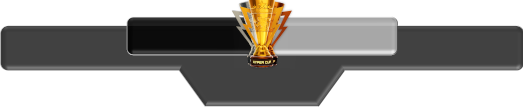
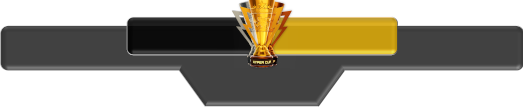
Dash Mountain

Changed region(s): [[0.5201, 0.1402, 0.7648, 0.5327]]

diff --git a/src/components/Bar.vue b/src/components/Bar.vue
@@ -20,7 +20,7 @@
 	.mode--blue.mode--payload .bar{transform: scaleX(-1);}
 	
 	.mode--blue .bar .bar_fill{background-color:#000000;}
-	.mode--red .bar .bar_fill{background-color:#6e6e6e;}
+	.mode--red .bar .bar_fill{background-color:#CB9B05;}
 	
 	.mode--blue.mode--domination .bar .bar_fill{background-color:#000000;}
 	.mode--red.mode--domination .bar .bar_fill{background-color:#6e6e6e;}

diff --git a/src/components/PlayerBar.vue b/src/components/PlayerBar.vue
@@ -65,7 +65,7 @@
 	.playerBar_name{font-size:30px;font-weight:800;grid-column:4 / span 5;grid-row:6 / span 2;position:relative;}
 	.playerBar_name span{position:relative;z-index:10;}
 	.playerBar_name svg{position:absolute;left:0;}
-	.playerBar--red polygon{fill:#6e6e6e;}
+	.playerBar--red polygon{fill:#CB9B05;}
 </style>
 
 <style>

diff --git a/src/components/KillFeed.vue b/src/components/KillFeed.vue
@@ -22,7 +22,7 @@ div {
 	--color-background-dark: #1f1f1f;
 	--color-text-white: white;
 	--color-team-blue: #000000;
-	--color-team-red: #6e6e6e;
+	--color-team-red: #CB9B05;
 	--padding-base: 2px;
 	--font-size: 20px;
 
